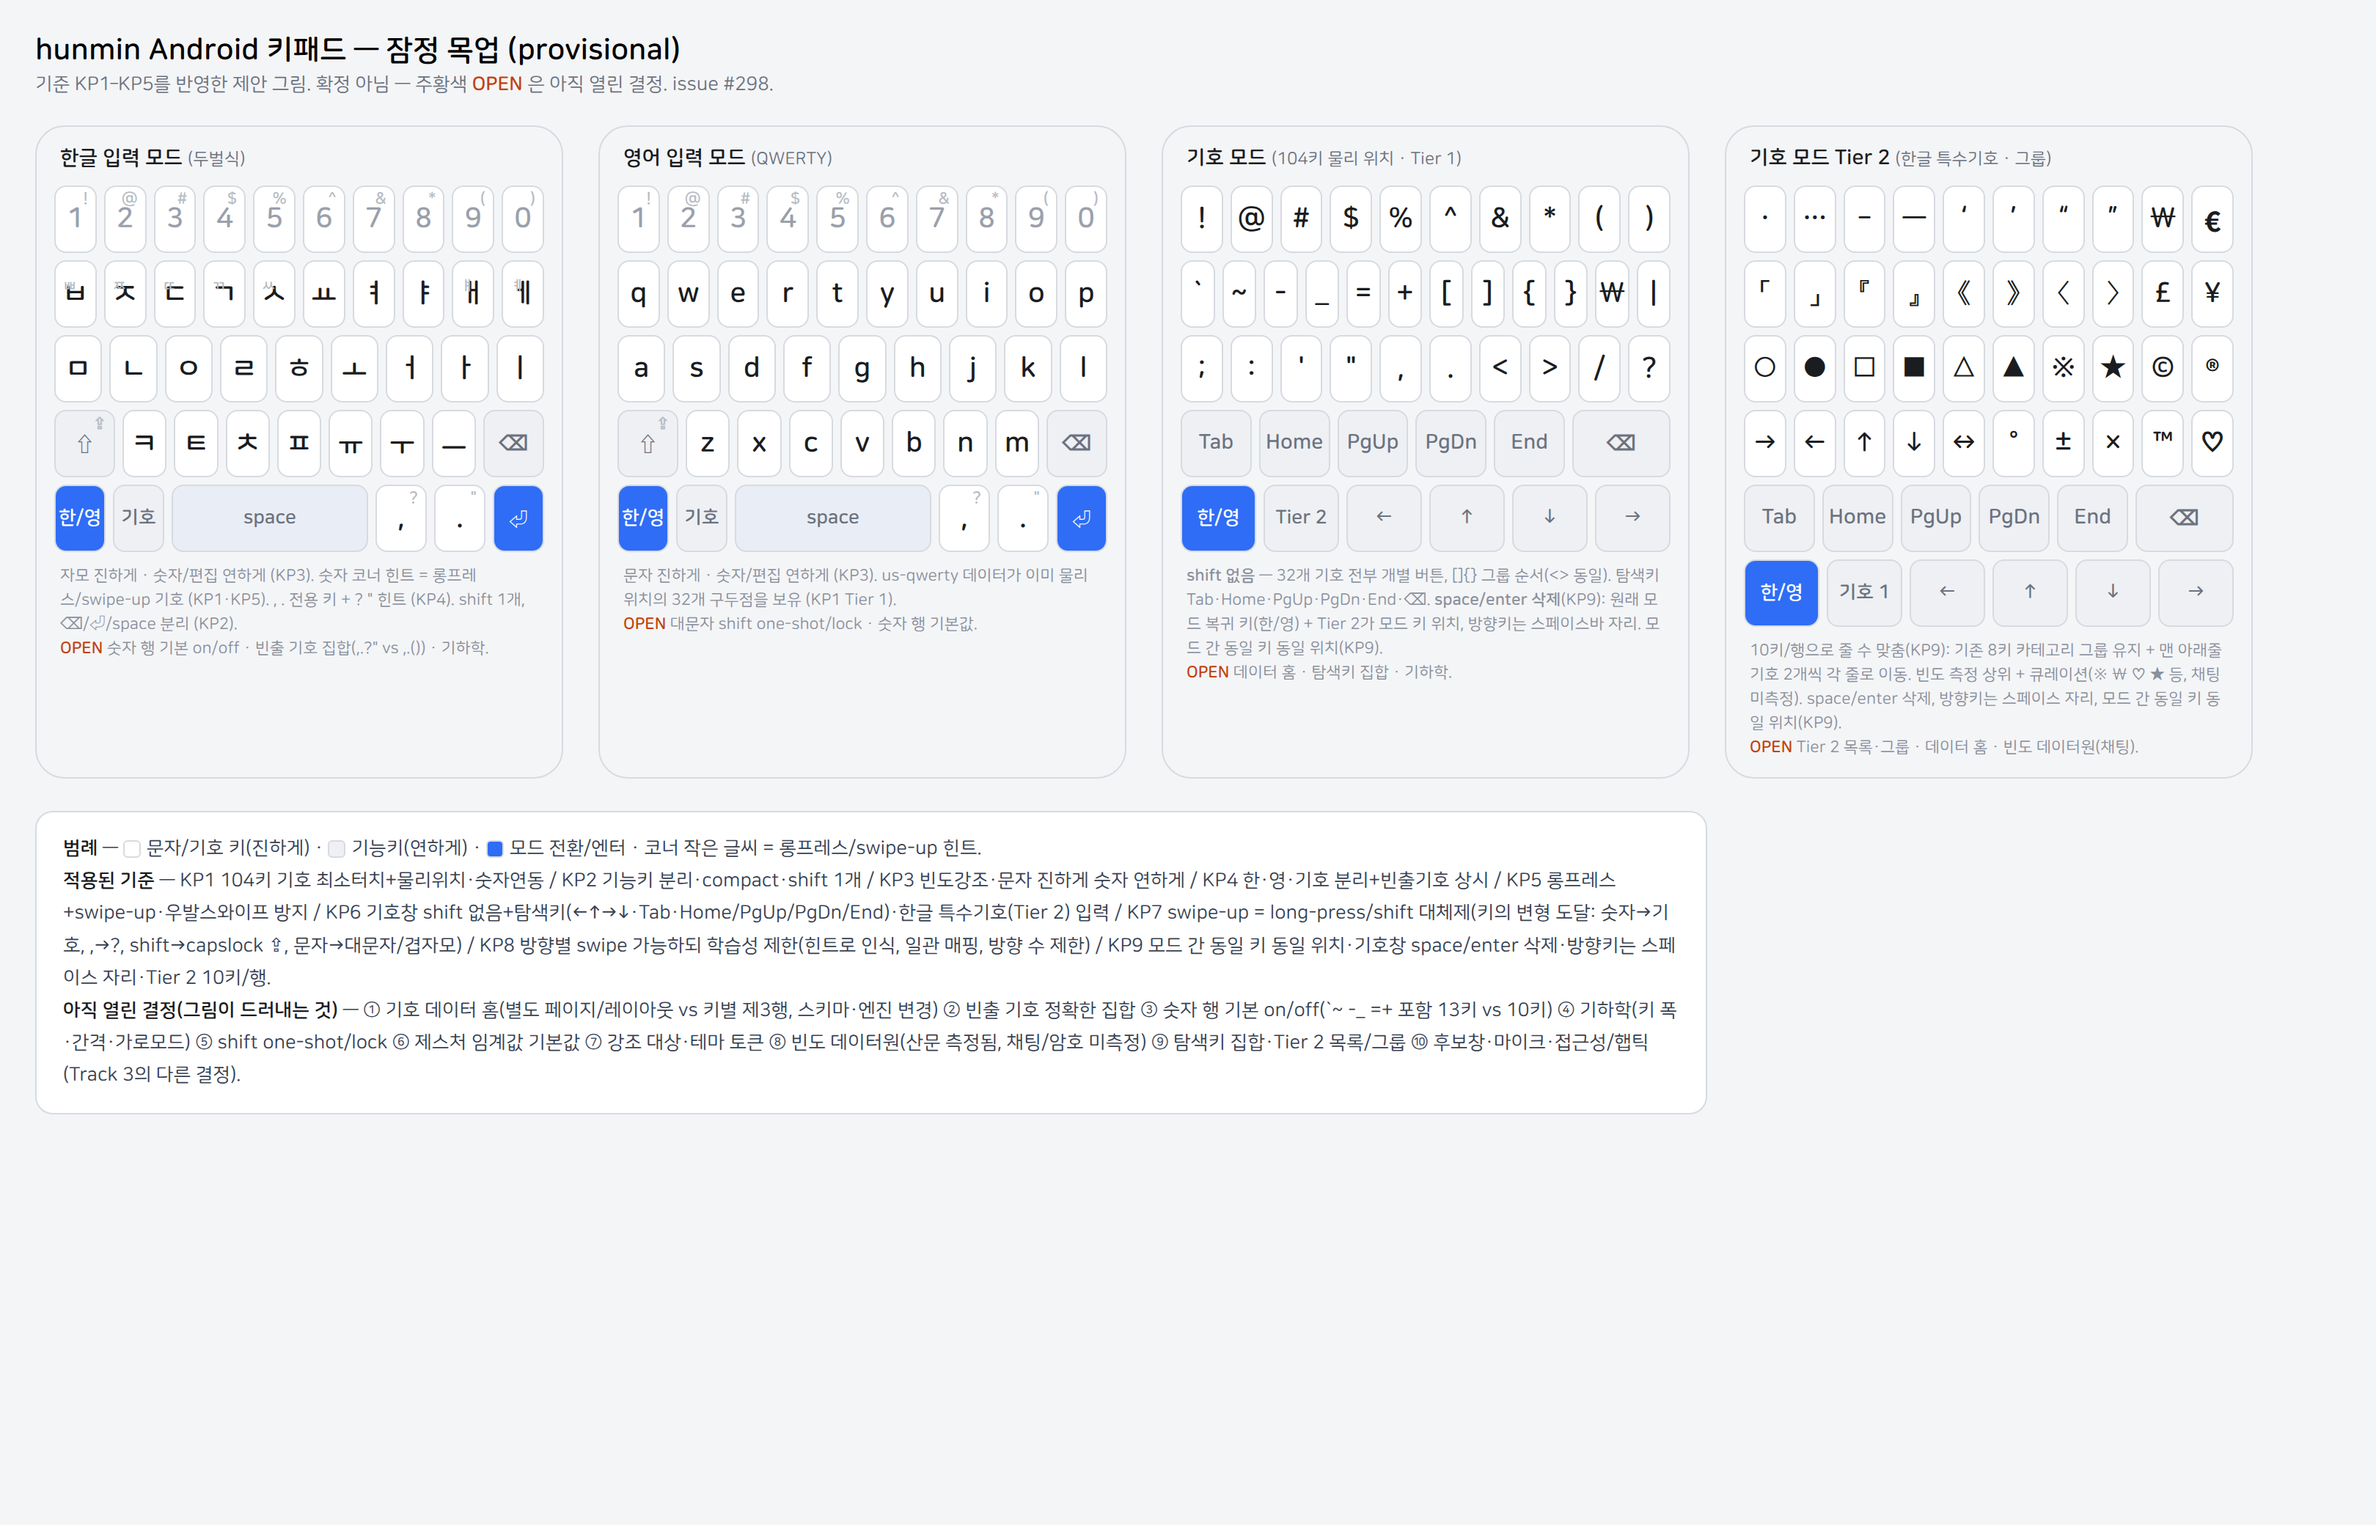
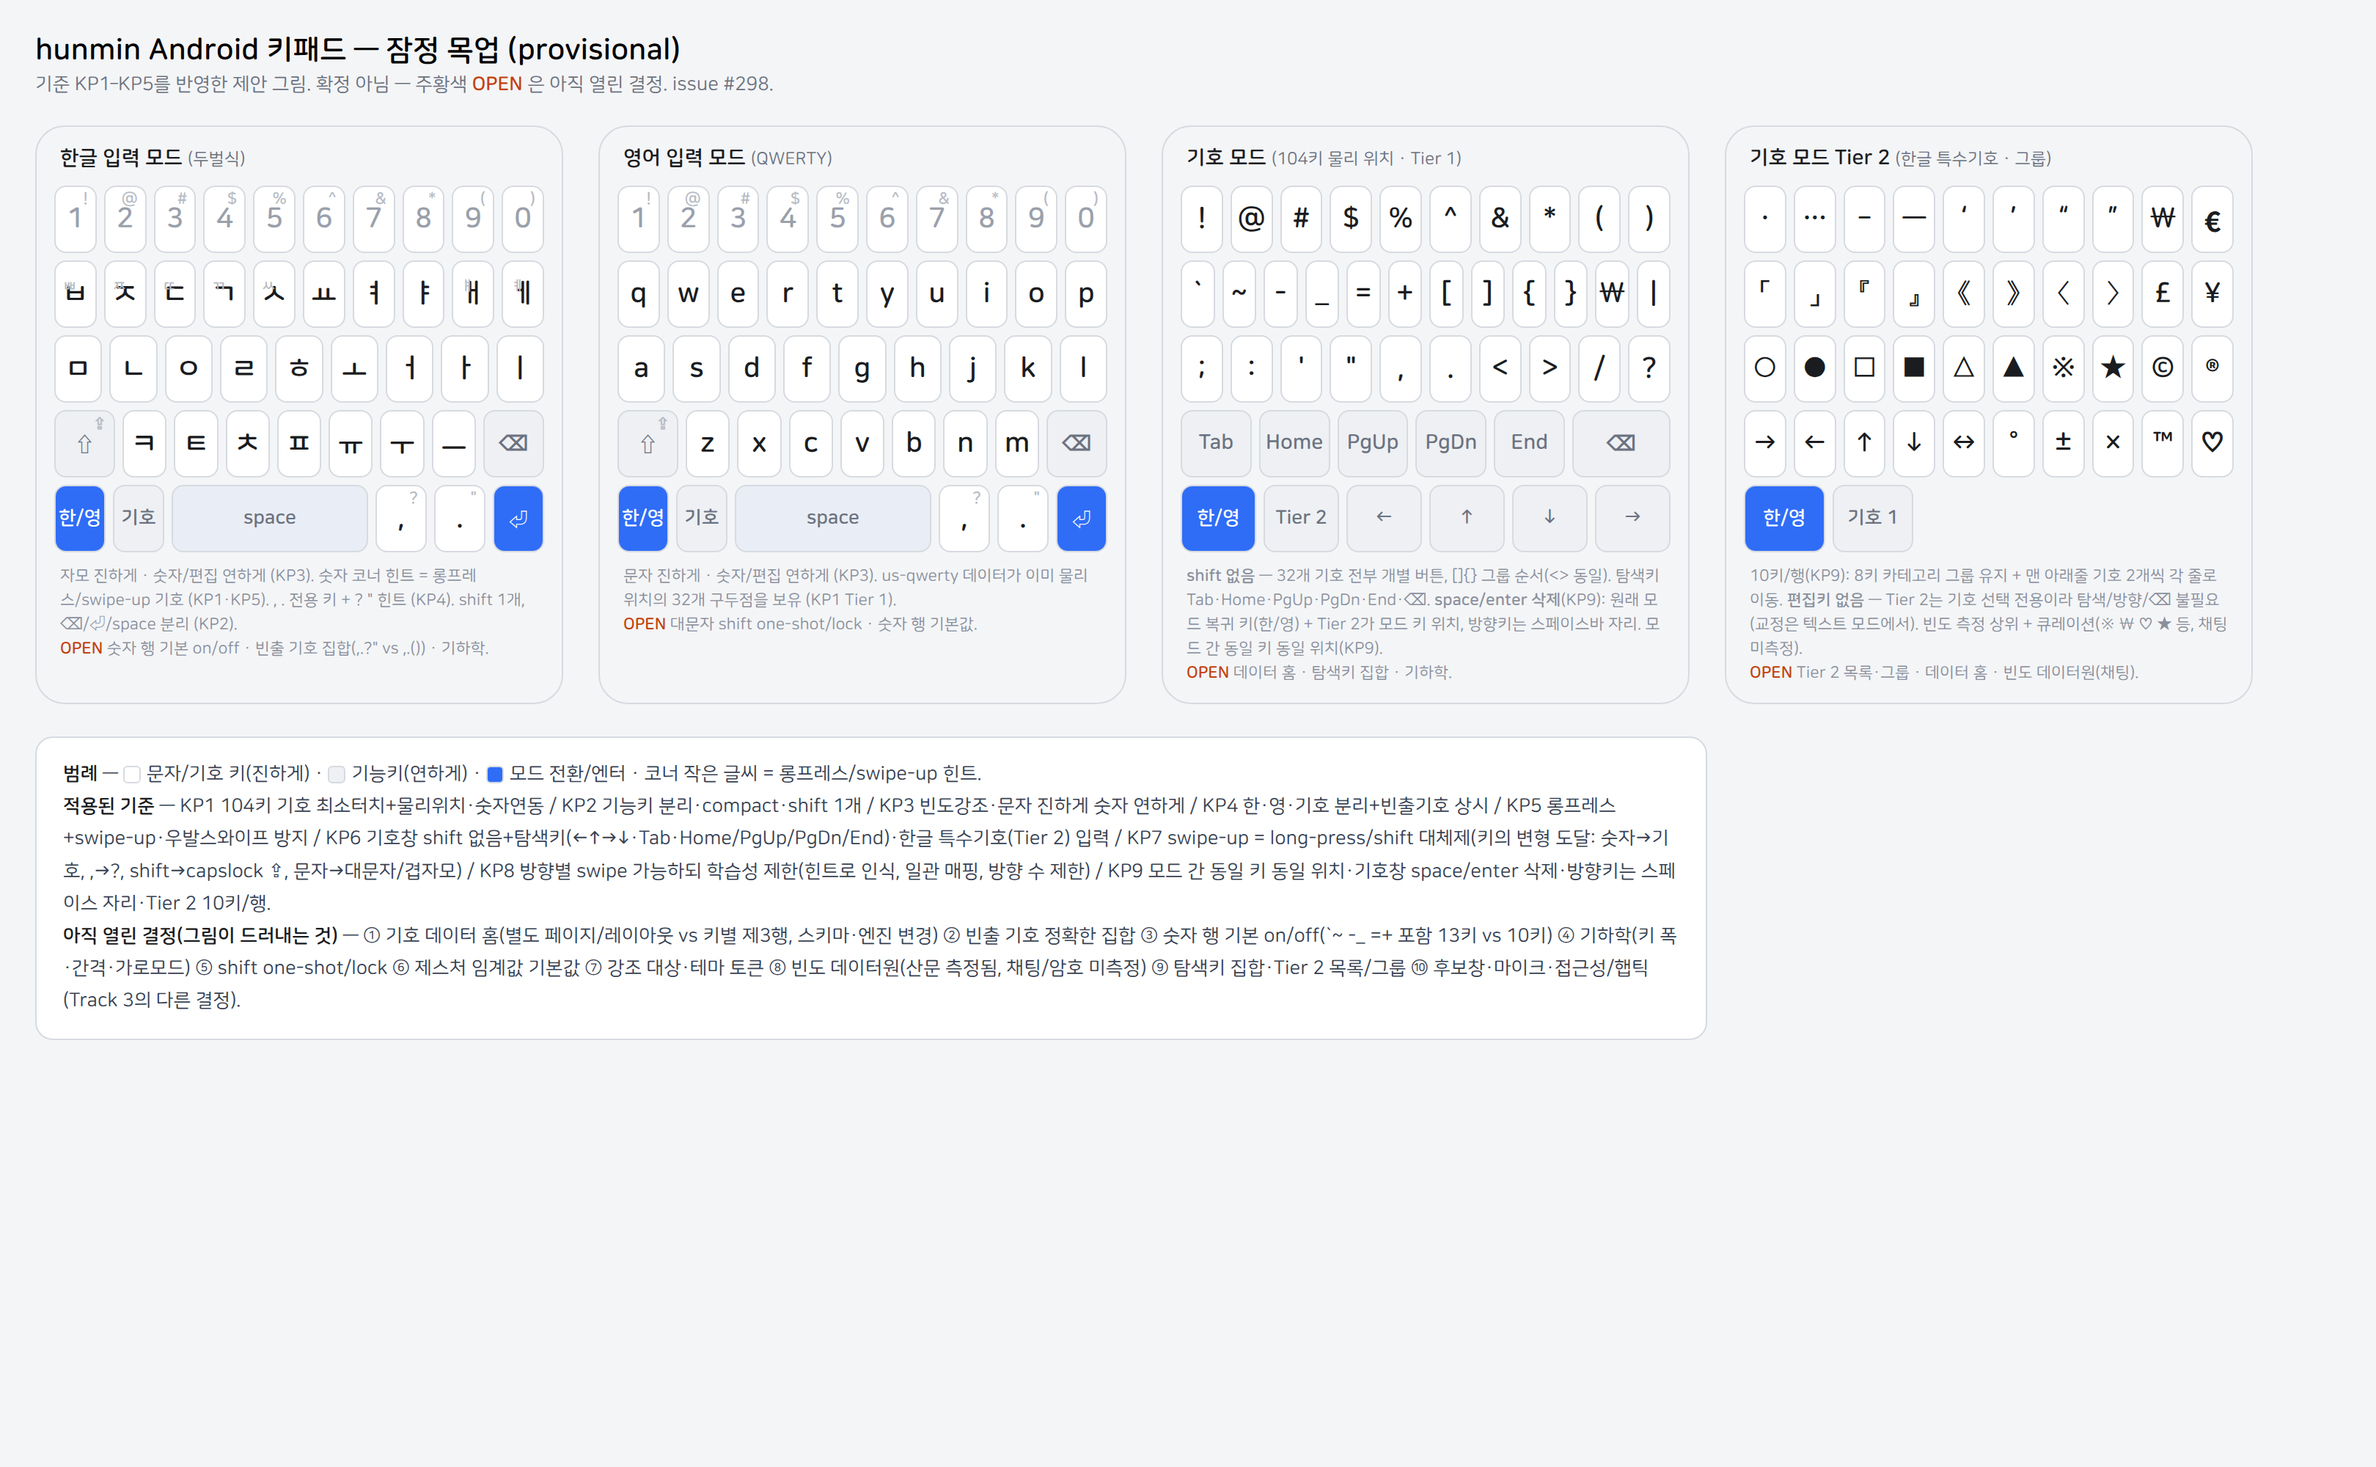
docs(android): Tier 2 has no editing keys (#298)
Maintainer (verbatim): "tier2에는 편집키가 필요없어." Tier 2 is a symbol picker, so
the navigation cluster (Tab/Home/PgUp/PgDn/End), arrows and backspace are removed;
correction happens in the text mode. Bottom row is just the mode-return keys
(한/영, 기호 1) in the same slots as Tier 1. Recorded in SPEC KP9; mockup HTML Tier 2
nav row + arrows removed, PNG re-rendered, mockup doc wireframe updated.

docs-lint/wiki-lint 0 errors. No verdict.

Refs #298

diff --git a/docs/android-keypad-mockup.html b/docs/android-keypad-mockup.html
@@ -226,24 +226,13 @@
         <div class="key">♡</div>
       </div>
       <div class="krow">
-        <div class="key fn">Tab</div>
-        <div class="key fn">Home</div>
-        <div class="key fn">PgUp</div>
-        <div class="key fn">PgDn</div>
-        <div class="key fn">End</div>
-        <div class="key fn bspace">⌫</div>
-      </div>
-      <div class="krow">
         <div class="key lang">한/영</div>
         <div class="key sym">기호 1</div>
-        <div class="key fn">←</div>
-        <div class="key fn">↑</div>
-        <div class="key fn">↓</div>
-        <div class="key fn">→</div>
+        <div class="key" style="flex:4;background:transparent;border:none"></div>
       </div>
       <div class="note">
-        10키/행으로 줄 수 맞춤(KP9): 기존 8키 카테고리 그룹 유지 + 맨 아래줄 기호 2개씩 각 줄로 이동.
-        빈도 측정 상위 + 큐레이션(※ ₩ ♡ ★ 등, 채팅 미측정). space/enter 삭제, 방향키는 스페이스 자리, 모드 간 동일 키 동일 위치(KP9).<br>
+        10키/행(KP9): 8키 카테고리 그룹 유지 + 맨 아래줄 기호 2개씩 각 줄로 이동. <b>편집키 없음</b> — Tier 2는
+        기호 선택 전용이라 탐색/방향/⌫ 불필요(교정은 텍스트 모드에서). 빈도 측정 상위 + 큐레이션(※ ₩ ♡ ★ 등, 채팅 미측정).<br>
         <span class="open">OPEN</span> Tier 2 목록·그룹 · 데이터 홈 · 빈도 데이터원(채팅).
       </div>
     </div>

diff --git a/docs/SPEC-ANDROID-KEYPAD.md b/docs/SPEC-ANDROID-KEYPAD.md
@@ -288,6 +288,11 @@ Two things:
   (2026-11-22, verbatim: "기존에 8개로 묶은 이유가 있을텐데, 맨 아래줄에 있는 기호
   2개씩을 각 줄로 옮기는 방식이 더 깔끔해."), not by reflowing the categories.
 
+Tier 2 carries **no editing keys** (2026-11-22, verbatim: "tier2에는 편집키가
+필요없어."): it is a symbol picker, so the navigation cluster, arrows and
+backspace are absent — correction happens in the text mode. Its bottom row is
+just the mode-return keys (`한/영`, `기호 1`), in the same slots as Tier 1.
+
 A layout that follows (bottom row mirrors the text modes' `[한/영][기호]…`):
 `[한/영] [Tier 2] [←] [↑] [↓] [→]`, backspace on the navigation row. The exact
 geometry is provisional; the binding rules are positional consistency and the

diff --git a/wiki/log.md b/wiki/log.md
@@ -1436,3 +1436,12 @@ Verified: `python3 tools/docs-lint.py --build-dir build-msvc` (0 errors) and
   Exact geometry provisional; positional consistency + space/enter removal binding.
   No verdict beyond the maintainer's stated direction.
 
+## [2026-11-22] update | Tier 2 has no editing keys
+
+- Maintainer (verbatim): "tier2에는 편집키가 필요없어." Tier 2 is a symbol picker:
+  the navigation cluster, arrows and backspace are removed; correction happens in
+  the text mode. Its bottom row is just the mode-return keys (한/영, 기호 1) in the
+  same slots as Tier 1. Recorded in SPEC KP9; mockup HTML Tier 2 nav row + arrows
+  removed (bottom 한/영/기호 1 only), PNG re-rendered, mockup doc wireframe updated.
+  No verdict.
+

diff --git a/docs/ANDROID-KEYPAD-MOCKUP.md b/docs/ANDROID-KEYPAD-MOCKUP.md
@@ -73,8 +73,7 @@ row.
  「」 『』 《》 〈〉 £ ¥                      (10, 낫표/화살괄호 + £¥)
  ○ ● □ ■ △ ▲ ※ ★ © ®                      (10, 도형/표시 + ©®)
  → ← ↑ ↓ ↔ ° ± × ™ ♡                      (10, 화살표/수학 + ™♡)
- (Tab) (Home) (PgUp) (PgDn) (End) (⌫)
- [한/영] [기호 1] (←) (↑) (↓) (→)           ← KP9: same functional layout as Tier 1
+ [한/영] [기호 1]                            ← 편집키 없음 (Tier 2는 기호 선택 전용)
 ```
 
 Tier 2 reaches 10 keys/row by **keeping the original 8-key category groups and
